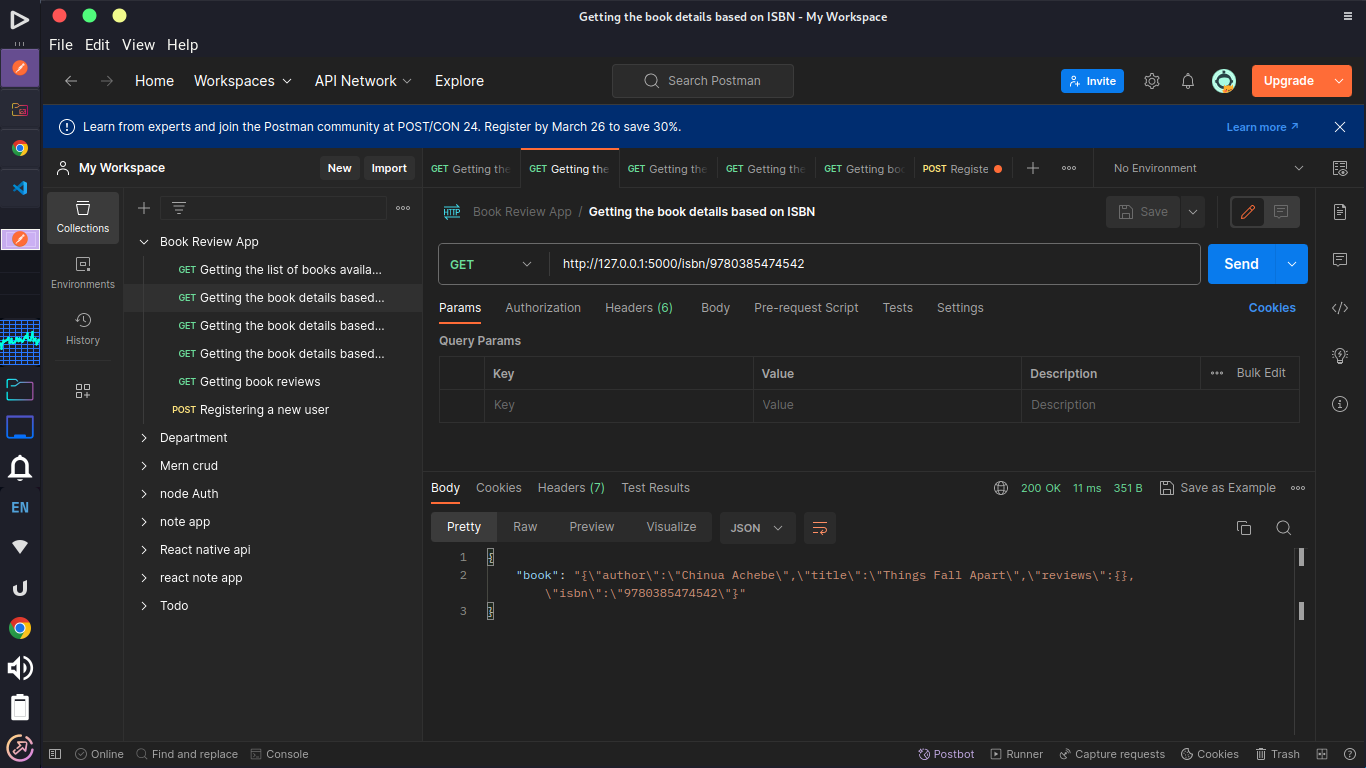
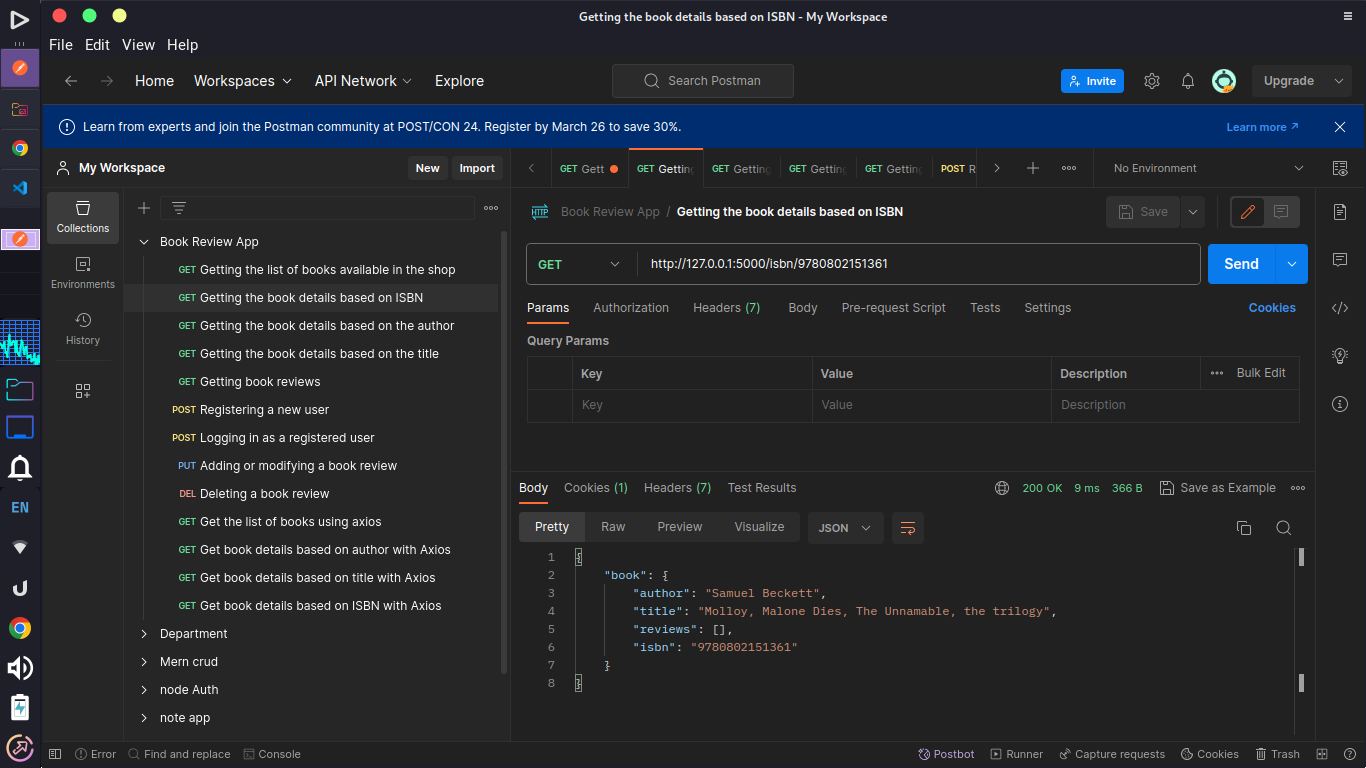
remove JSON

diff --git a/router/general.js b/router/general.js
@@ -31,7 +31,7 @@ public_users.post("/register", (req, res) => {
 // Get the book list available in the shop
 public_users.get('/', async (req, res) => {
   try {
-    return res.status(200).json({ books: JSON.stringify(books) });
+    return res.status(200).json({ books });
   } catch (error) {
     return res.status(500).json({ message: error.message });
   }
@@ -42,9 +42,8 @@ public_users.get('/', async (req, res) => {
 public_users.get("/books", async (req, res) => {
   try {
     const response = await axios.get("http://localhost:5000");
-    const data = response.data;
-    const books = JSON.parse(data.books);
-    return res.status(200).json({ books: JSON.stringify(books) });
+    const { books } = response.data;
+    return res.status(200).json({ books });
   } catch (error) {
     return res.status(500).json({ message: error.message });
   }
@@ -58,7 +57,7 @@ public_users.get('/isbn/:isbn', function (req, res) {
     if (!book) {
       return res.status(404).json({ book: null, message: "Book not found" });
     }
-    return res.status(200).json({ book: JSON.stringify(book) });
+    return res.status(200).json({ book });
   } catch (error) {
     return res.status(500).json({ message: error.message });
   }
@@ -69,9 +68,8 @@ public_users.get("/books/isbn/:isbn", async (req, res) => {
   try {
     const isbn = req.params.isbn;
     const response = await axios.get(`http://localhost:5000/isbn/${isbn}`);
-    const data = response.data;
-    const book = JSON.parse(data.book);
-    return res.status(200).json({ book: JSON.stringify(book) });
+    const { book } = response.data;
+    return res.status(200).json({ book });
   } catch (error) {
     return res.status(500).json({ message: error.message });
   }
@@ -86,7 +84,7 @@ public_users.get('/author/:author', function (req, res) {
     if (!book) {
       return res.status(404).json({ book: null, message: "Book not found" });
     }
-    return res.status(200).json({ book: JSON.stringify(book) });
+    return res.status(200).json({ book });
   } catch (error) {
     return res.status(500).json({ message: error.message });
   }
@@ -98,9 +96,8 @@ public_users.get("/books/author/:author", async (req, res) => {
   try {
     const author = req.params.author;
     const response = await axios.get(`http://localhost:5000/author/${author}`);
-    const data = response.data;
-    const book = JSON.parse(data.book);
-    return res.status(200).json({ book: JSON.stringify(book) });
+    const { book } = response.data;
+    return res.status(200).json({ book });
   } catch (error) {
     return res.status(500).json({ message: error.message });
   }
@@ -114,7 +111,7 @@ public_users.get('/title/:title', function (req, res) {
     if (!book) {
       return res.status(404).json({ book: null, message: "Book not found" });
     }
-    return res.status(200).json({ book: JSON.stringify(book) });
+    return res.status(200).json({ book });
   } catch (error) {
     return res.status(500).json({ message: error.message });
   }
@@ -125,9 +122,8 @@ public_users.get("/books/title/:title", async (req, res) => {
   try {
     const title = req.params.title;
     const response = await axios.get(`http://localhost:5000/title/${title}`);
-    const data = response.data;
-    const book = JSON.parse(data.book);
-    return res.status(200).json({ book: JSON.stringify(book) });
+    const { book } = response.data;
+    return res.status(200).json({ book });
   } catch (error) {
     return res.status(500).json({ message: error.message });
   }
@@ -143,7 +139,7 @@ public_users.get('/review/:isbn', function (req, res) {
     }
     const book_reviews = book.reviews;
     const book_isbn = book.isbn;
-    return res.status(200).json({ reviews: JSON.stringify(book_reviews), isbn: book_isbn });
+    return res.status(200).json({ reviews: book_reviews, isbn: book_isbn });
   } catch (error) {
     return res.status(500).json({ message: error.message });
   }

diff --git a/router/auth_users.js b/router/auth_users.js
@@ -70,7 +70,7 @@ regd_users.put("/auth/review/:isbn", (req, res) => {
     }
     book.reviews.push({ username: req.user.username, review: review });
 
-    return res.status(201).json({ message: "Review added successfully", book: JSON.stringify(book) });
+    return res.status(201).json({ message: "Review added successfully", book });
   } catch (error) {
     return res.status(500).json({ message: error.message });
   }
@@ -85,7 +85,7 @@ regd_users.delete("/auth/review/:isbn", (req, res) => {
       return res.status(404).json({ book: null, message: "Book review not found" });
     }
     book.reviews = book.reviews.filter(review => review.username !== req.user.username);
-    return res.status(200).json({ message: "Review deleted successfully", book: JSON.stringify(book) });
+    return res.status(200).json({ message: "Review deleted successfully", book });
   } catch (error) {
     return res.status(500).json({ message: error.message });
   }
